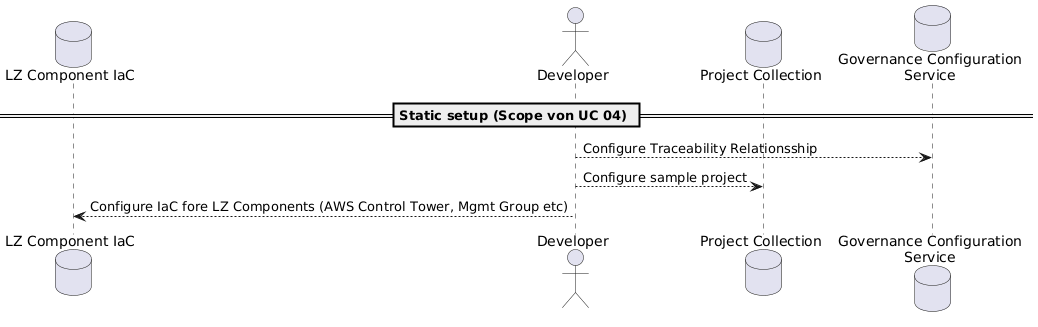
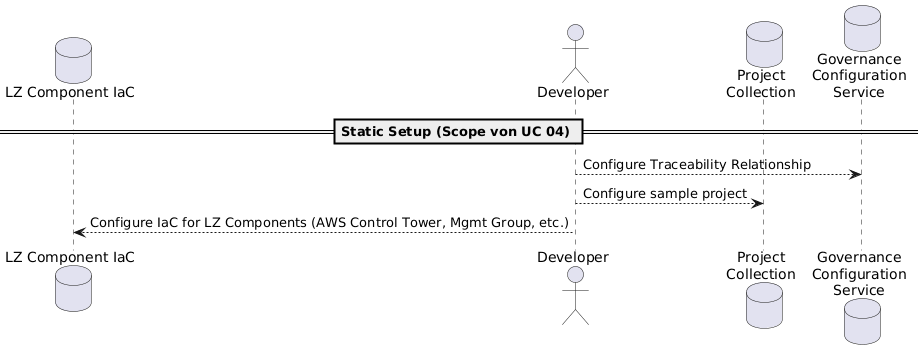
work on poc flows

diff --git a/sections/methodik_poc.tex b/sections/methodik_poc.tex
@@ -208,7 +208,7 @@ Basierend auf den Kriterien und der Bewertungsskala wird die Bewertung der versc
     \label{tab:evaluating-didactic-criteria4}
 \end{longtable}
 
-Basierend auf der Evaluation der Kriterien wird sich für der \ac{poc} für die Variante der Component-centric Architektur entschieden. Eine weitere Überlegung zu den bereits evaluierten Kriterien ist, dass die Aufteilung in die \ac{lz} Komponenten gewissermassen auch der Know-how Strukturierung im \ac{bit}. Hiermit ist konkrete die Aufteilung auf bspw. Networking, Storage, \ac{iam} etc. gedacht, welche heute teilweise von verschiedene Abteilungen verantwortet werden. Der \ac{poc} soll somit zu der Funktionsweise der Traceability-Architecture zugleich die Abbildungen auf die verschiedenen Ausprägungen des Cloud-Experte (durch die verschiedenen Abteilungen) gerecht werden.
+Basierend auf der Evaluation der Kriterien wird im \ac{poc} für die Variante der Component-centric Architektur entschieden. Eine weitere Überlegung zu den bereits evaluierten Kriterien ist, dass die Aufteilung in die \ac{lz} Komponenten gewissermassen auch der Know-how Strukturierung im \ac{bit}. Hiermit ist konkrete die Aufteilung auf bspw. Networking, Storage, \ac{iam} etc. gedacht, welche heute teilweise von verschiedene Abteilungen verantwortet werden. Der \ac{poc} soll somit zu der Funktionsweise der Traceability-Architecture zugleich die Abbildungen auf die verschiedenen Ausprägungen des Cloud-Experte (durch die verschiedenen Abteilungen) gerecht werden.
 
 Der \ac{poc} soll einen Fokus auf die Traceability-Architecture gewährleisten. Der Scope erhebt somit nicht den Anspruch einer ganzheitlichen Implementierung, sondern dedizierte Aspekte hervorzuheben. Um gleichwohl im Sinne der didaktischen Ziele eine gute Veranschaulichung zu erhalten, wird ein GUI-Prototyp generiert. Dieser Prototyp (siehe \fullref{appendix:ui-mockup}) soll aufzeigen wie sich ein Tool für die Akteure aus \fullref{tab:uc6-verify-compliance} verhalten würde, welche auf einem System mit der Traceability-Architecture aufbaut. Die wesentlichen Schritte aus dem Hauptablauf des Use-Cases sind hierbei: die Auswahl des Projektes durch den Compliance-Officer wie in \autoref{fig:methodology-project-healthcare-view} und die Überprüfung des Compliance-Status inkl. Trace wie in \autoref{fig:methodology-project-healthcare-view-evidence}
 
@@ -239,27 +239,30 @@ Der \ac{poc} besteht aus den Komponenten in \autoref{fig:methodology-poc-setup}.
 
 % KOMPLETTES DIAGRAMM
 % @startuml
-% participant "LZ Provisioning Service" as lz
-% participant "IaC Engine" as cloud
-% actor "Projektverantwortlicher" as po
-% participant "Project Service" as project
-% participant "Traceability Service" as trace
-% participant "Evidence Service" as evidence
-% actor "Compliance Officer" as comp
-% participant "Governance Config Service" as gov
-% database "Governance Relationsship" as govdb
+
+% participant "LZ\nProvisioning\nService" as lz
+% participant "IaC\nEngine" as cloud
+% actor "Projekt-\nverantwortlicher" as po
+% participant "Project\nService" as project
+% participant "Traceability\nService" as trace
+% database "Governance\nDecision\nStore" as decision
+% participant "Evidence\nService" as evidence
+% actor "Compliance\nOfficer" as comp
+% participant "Governance\nConfig\nService" as gov
+% database "Governance\nRelationsship" as govdb
 % database "LZ Component IaC" as compiac
 % actor "Developer" as dev
-% database "Project Collection" as projectdb
+% database "Project\nCollection" as projectdb
+% database "Governance\nConfiguration\nService" as config
 
-% == Static setup (Scope von UC 04) ==
+% == Static Setup (Scope von UC 04) ==
 
-% dev --> govdb : Configure Traceability Relationsship
+% dev --> config : Configure Traceability Relationship
 % dev --> projectdb: Configure sample project
-% dev --> compiac : Configure IaC fore LZ Components (AWS Control Tower, Mgmt Group etc)
+% dev --> compiac : Configure IaC for LZ Components (AWS Control Tower, Mgmt Group, etc.)
 
+% == Deploy new Project (Scope von UC 06) ==
 
-% == Deploy new project (Scope von UC 06) ==
 % po --> project : Declare choice for LZ Component category
 % project --> trace : Get LZ Governance Assessment
 % activate trace
@@ -270,32 +273,36 @@ Der \ac{poc} besteht aus den Komponenten in \autoref{fig:methodology-poc-setup}.
 
 % == Verify compliance (Scope von UC 06) ==
 
-% trace --> project: Get LZ accounts ids of project
-% trace --> govdb:  Get assessment for accounts of projects
-% trace --> cloud: Check compliance of account inside mgmt group /ao
+% trace --> project: Get LZ account IDs\nof project
+% trace --> decision:  Get category/governance decision for accounts of projects
+% trace --> config: Get relationship from decision
+% trace --> cloud: Check compliance of account\ninside mgmt group / AO
 % trace --> evidence: Send evaluation result
 % comp --> evidence: Get evaluation result
+
 % @enduml
+
 
 % STATIC SETUP
 % @startuml
 
 % database "LZ Component IaC" as compiac
 % actor "Developer" as dev
-% database "Project Collection" as projectdb
-% database "Governance Configuration\nService" as config
+% database "Project\nCollection" as projectdb
+% database "Governance\nConfiguration\nService" as config
 
-% == Static setup (Scope von UC 04) ==
+% == Static Setup (Scope von UC 04) ==
 
-% dev --> config : Configure Traceability Relationsship
+% dev --> config : Configure Traceability Relationship
 % dev --> projectdb: Configure sample project
-% dev --> compiac : Configure IaC fore LZ Components (AWS Control Tower, Mgmt Group etc)
+% dev --> compiac : Configure IaC for LZ Components (AWS Control Tower, Mgmt Group, etc.)
 
 % @enduml
+
 \begin{figure}[H]
     \centering
     \includegraphics[width=\textwidth]{graphics/sequence-diagramm-poc_static_setup.png}
-    \caption{Sequenz-Diagramm für statische Setup des \ac{poc}}
+    \caption{Sequenz-Diagramm für statisches Setup des \ac{poc}}
     \label{fig:methodology-poc-sequence-static-setup}
 \end{figure}
 
@@ -303,23 +310,25 @@ Der \ac{poc} besteht aus den Komponenten in \autoref{fig:methodology-poc-setup}.
 % DEPLOY NEW PROJECT
 % @startuml
 
-% participant "IaC Engine" as cloud
-% participant "LZ Provisioning Service" as lz
-% actor "Projektverantwortlicher" as po
-% participant "Project Service" as project
-% participant "Traceability Service" as trace
-% database "Governance Decision\nStore" as decision
-% database "Governance Configuration\nService" as config
+% participant "IaC\nEngine" as cloud
+% participant "LZ\nProvisioning\nService" as lz
+% actor "Projekt-\nverantwortlicher" as po
+% participant "Project\nService" as project
+% participant "Traceability\nService" as trace
+% database "Governance\nDecision\nStore" as decision
+% database "Governance\nConfiguration\nService" as config
 
 % == Deploy new project (Scope von UC 06) ==
-% po --> project : Declare choice for LZ Component category
-% project --> trace : Get LZ Governance Assessment
+
+% po --> project : Declare choice for\nLZ Component category
+% project --> trace : Get LZ Governance\nAssessment
 % activate trace
-% trace --> config: Check Relationships for Component/Governance category \n based on governance requirements
+% trace --> config: Check Relationships for\nComponent/Governance category\nbased on governance requirements
 % trace --> decision: Store Component/Governance decision
 % return LZ Governance Assessment
-% project --> lz: Create LZ based on Assessment
-% lz --> cloud: Create subscription with blueprint in Mgmt Group / OU etc
+% project --> lz: Create LZ based\non Assessment
+% lz --> cloud: Create subscription with blueprint\nin Mgmt Group, OU, etc.
+
 % @enduml
 
 \begin{figure}[H]
@@ -329,30 +338,28 @@ Der \ac{poc} besteht aus den Komponenten in \autoref{fig:methodology-poc-setup}.
     \label{fig:methodology-poc-sequence-project-setup}
 \end{figure}
 
-
-
-
 % VERIFY COMPLIANCE
 % @startuml
 
-% participant "IaC Engine" as cloud
-% participant "Project Service" as project
-% participant "Traceability Service" as trace
-% participant "Evidence Service" as evidence
-% actor "Compliance Officer" as comp
-% database "Governance Decision\nStore" as decision
-% database "Governance Configuration\nService" as config
+% participant "IaC\nEngine" as cloud
+% participant "Project\nService" as project
+% participant "Traceability\nService" as trace
+% participant "Evidence\nService" as evidence
+% actor "Compliance\nOfficer" as comp
+% database "Governance\nDecision\nStore" as decision
+% database "Governance\nConfiguration\nService" as config
 
 % == Verify compliance (Scope von UC 06) ==
 
-% trace --> project: Get LZ accounts ids of project
-% trace --> decision:  Get category/governance\ndecision for accounts of projects
+% trace --> project: Get LZ account IDs\nof project
+% trace --> decision:  Get category/governance decision for accounts of projects
 % trace --> config: Get relationship from decision
-% trace --> cloud: Check compliance of account inside mgmt group /ao
+% trace --> cloud: Check compliance of account\ninside mgmt group / AO
 % trace --> evidence: Send evaluation result
 % comp --> evidence: Get evaluation result
 
 % @enduml
+
 \begin{figure}[H]
     \centering
     \includegraphics[width=\textwidth]{graphics/sequence-diagramm-poc_verify-compliance.png}

diff --git a/fhnwheader.tex b/fhnwheader.tex
@@ -128,3 +128,5 @@
   }%
   \space(\nameref{#1})%
 }
+
+% \usepackage{parskip} % Adds space between paragraphs, removes indentation
